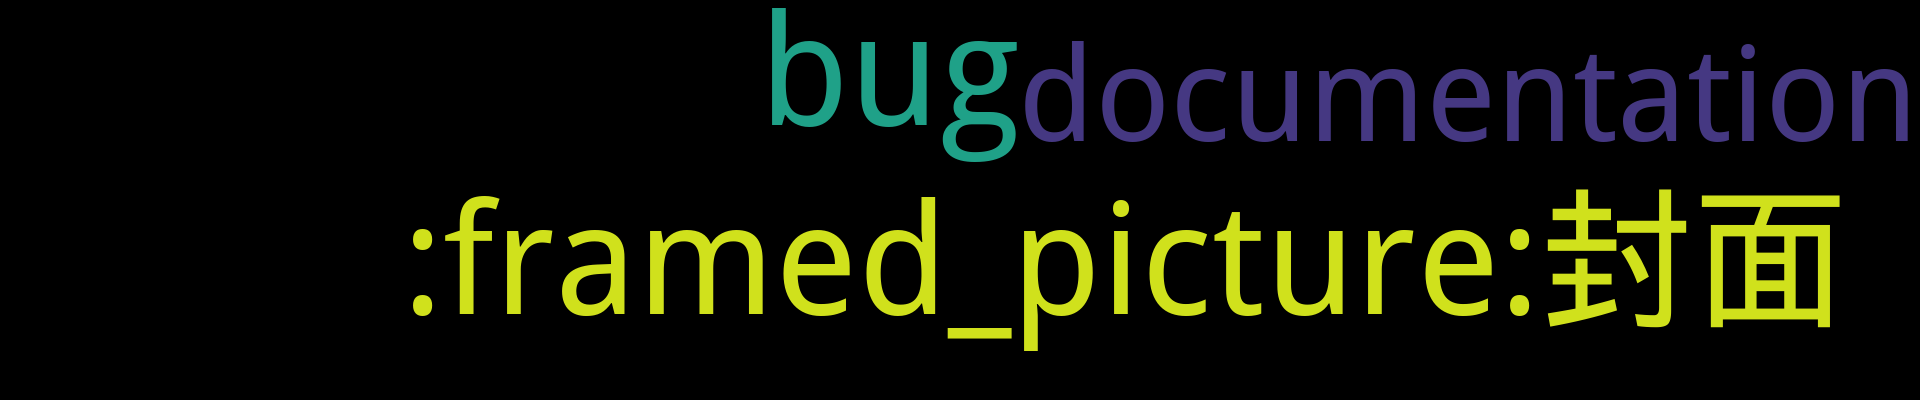
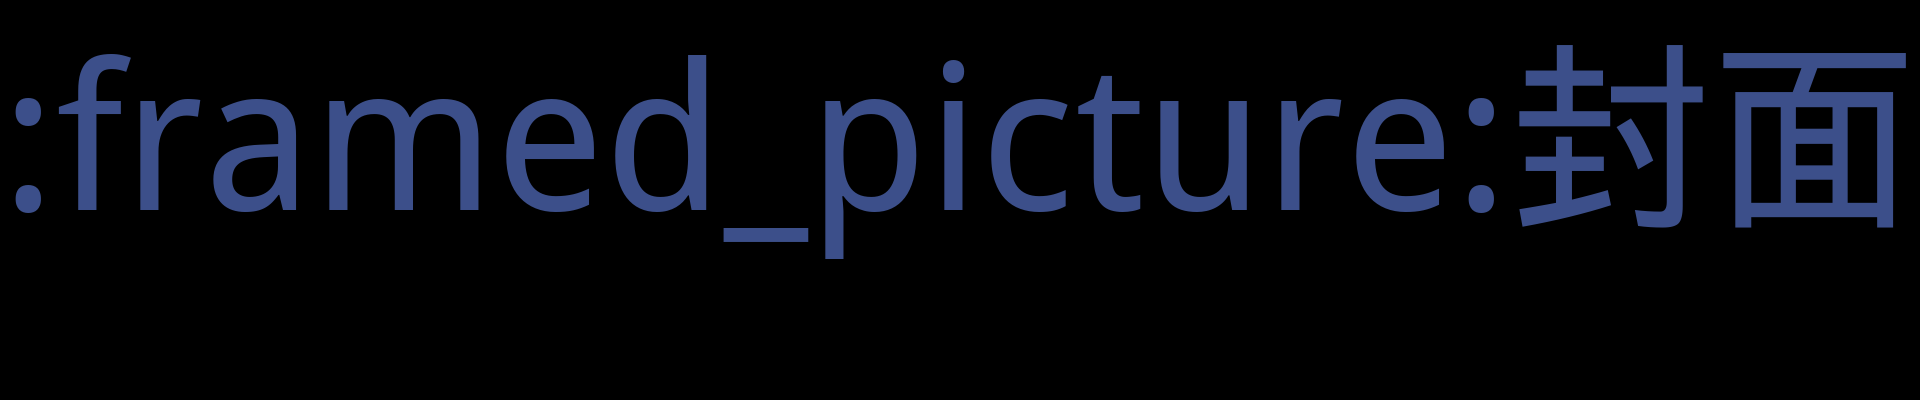
Update from Github Action

Changed region(s): [[0.0, 0.03, 1.0, 0.87]]

diff --git a/README.md b/README.md
@@ -3,7 +3,7 @@
 <p align='center'>
     <img src="https://badgen.net/badge/labels/12"/>
     <img src="https://badgen.net/github/issues/smileyby/ghiblog"/>
-    <img src="https://badgen.net/badge/last-commit/2021-05-25 08:15:32"/>
+    <img src="https://badgen.net/badge/last-commit/2021-05-25 08:16:26"/>
     <img src="https://badgen.net/github/forks/smileyby/ghiblog"/>
     <img src="https://badgen.net/github/stars/smileyby/ghiblog"/>
     <img src="https://badgen.net/github/watchers/smileyby/ghiblog"/>
@@ -34,28 +34,6 @@
     
 ## 置顶 :thumbsup: 
 ## 最新 :new: 
-
-#### [wtf](https://github.com/smileyby/notes-copy/issues/9) <sup>0 :speech_balloon:</sup> 	 2021-05-25 07:55:57
-
-:label: : [documentation](https://github.com/smileyby/ghiblog/labels/documentation)
-
-wtf
-
-[更多>>>](https://github.com/smileyby/notes-copy/issues/9)
-
----
-
-
-#### [006](https://github.com/smileyby/notes-copy/issues/8) <sup>0 :speech_balloon:</sup> 	 2021-05-25 07:52:27
-
-:label: : [bug](https://github.com/smileyby/ghiblog/labels/bug)
-
-测试
-
-[更多>>>](https://github.com/smileyby/notes-copy/issues/8)
-
----
-
 
 #### [封面图](https://github.com/smileyby/notes-copy/issues/1) <sup>1 :speech_balloon:</sup> 	 2021-05-25 07:10:43
 
@@ -101,9 +79,8 @@ wtf
 </details>
 
 <details>
-<summary>documentation	<sup>1:newspaper:</sup></summary>
+<summary>documentation	<sup>0:newspaper:</sup></summary>
 
-- [wtf](https://github.com/smileyby/notes-copy/issues/9)  <sup>0 :speech_balloon:</sup>  	 
 
 
 </details>
